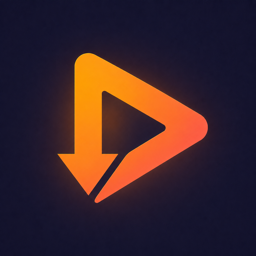
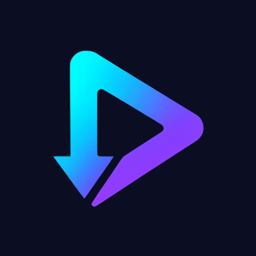
Portage rebrand: electric cyan on midnight navy, new mark
Colors and icon follow the app's new identity (cyan → azure → violet
gradient, midnight-navy surfaces); synced from the app repo's docs/rtc.

diff --git a/index.html b/index.html
@@ -8,23 +8,23 @@
 <style>
   :root {
     color-scheme: dark;
-    --accent: #F59E42;   /* warm amber — the app's primary */
-    --coral:  #E85E52;   /* glow gradient partner */
-    --violet: #9E78F0;   /* conversion family */
-    --deep:   #16172B;   /* deep indigo surface */
-    --ink:    #ECEAF3;
-    --muted:  #9095AD;
-    --glow: linear-gradient(135deg, var(--accent), var(--coral));
+    --accent: #19D8E6;   /* electric cyan — the app's primary */
+    --blue:   #268CFF;   /* glow gradient bridge */
+    --violet: #7B45F6;   /* conversion family */
+    --deep:   #0B0D22;   /* midnight navy surface */
+    --ink:    #F4F7FF;
+    --muted:  #AEB7D4;
+    --glow: linear-gradient(135deg, #19E2D3, var(--blue), var(--violet));
   }
   * { box-sizing: border-box; }
-  html, body { margin: 0; height: 100%; color: #ECEAF3; color: var(--ink);
+  html, body { margin: 0; height: 100%; color: #F4F7FF; color: var(--ink);
     font: 16px/1.5 -apple-system, BlinkMacSystemFont, "Segoe UI", system-ui, sans-serif;
     -webkit-font-smoothing: antialiased; }
-  /* "Projector in a dark room": warm amber light on deep indigo. */
-  body { background: radial-gradient(1200px 640px at 50% -10%, rgba(245,158,66,0.20), transparent 60%),
-      radial-gradient(900px 620px at 88% 116%, rgba(158,120,240,0.16), transparent 60%),
-      #16172B; background: radial-gradient(1200px 640px at 50% -10%, rgba(245,158,66,0.20), transparent 60%),
-      radial-gradient(900px 620px at 88% 116%, rgba(158,120,240,0.16), transparent 60%),
+  /* The mark's own light in a dark room: electric cyan on midnight navy. */
+  body { background: radial-gradient(1200px 640px at 50% -10%, rgba(25,216,230,0.20), transparent 60%),
+      radial-gradient(900px 620px at 88% 116%, rgba(123,69,246,0.16), transparent 60%),
+      #0B0D22; background: radial-gradient(1200px 640px at 50% -10%, rgba(25,216,230,0.20), transparent 60%),
+      radial-gradient(900px 620px at 88% 116%, rgba(123,69,246,0.16), transparent 60%),
       var(--deep); }
   #stage { position: fixed; top: 0; left: 0; right: 0; bottom: 0; display: flex; align-items: center;
     justify-content: center; padding: 24px; box-sizing: border-box; }
@@ -45,11 +45,11 @@
 
   .mark { width: 66px; height: 66px; margin: 0 auto 18px; display: block;
     border-radius: 16px;
-    filter: drop-shadow(0 10px 24px rgba(245,158,66,0.38)); }
+    filter: drop-shadow(0 10px 24px rgba(25,216,230,0.38)); }
   .wordmark { font-size: 12px; letter-spacing: 3.5px; text-transform: uppercase;
-    color: #9095AD; color: var(--muted); font-weight: 700; margin: 0 0 8px; }
+    color: #AEB7D4; color: var(--muted); font-weight: 700; margin: 0 0 8px; }
   h1 { font-size: 25px; font-weight: 700; letter-spacing: -0.3px; margin: 0 0 6px; }
-  .sub { color: #9095AD; color: var(--muted); font-size: 15px; margin: 0 0 26px; }
+  .sub { color: #AEB7D4; color: var(--muted); font-size: 15px; margin: 0 0 26px; }
 
   /* The screen's own code — read from here, typed into the app. Wide letter
      spacing and an unambiguous alphabet so it survives being read across a
@@ -58,7 +58,7 @@
     margin: 10px 0 4px;
     font: 700 46px/1.1 ui-monospace, "SF Mono", Menlo, monospace;
     letter-spacing: 10px; text-indent: 10px;   /* indent balances the trailing gap */
-    color: #F59E42; color: var(--accent);
+    color: #19D8E6; color: var(--accent);
     -webkit-user-select: all; user-select: all;
   }
 
@@ -70,12 +70,12 @@
   .cell { width: 60px; height: 76px; border-radius: 18px;
     background: rgba(255,255,255,0.04); border: 1.5px solid rgba(255,255,255,0.13);
     display: flex; align-items: center; justify-content: center;
-    font: 700 42px/1 ui-monospace, "SF Mono", Menlo, monospace; color: #ECEAF3; color: var(--ink);
+    font: 700 42px/1 ui-monospace, "SF Mono", Menlo, monospace; color: #F4F7FF; color: var(--ink);
     transition: border-color .15s, box-shadow .15s, transform .15s; }
   .cell.filled { border-color: rgba(255,255,255,0.30); }
-  .cell.active { border-color: #F59E42; border-color: var(--accent); transform: translateY(-2px);
-    box-shadow: 0 0 0 4px rgba(245,158,66,0.16); }
-  .cell.active::after { content: ""; width: 2px; height: 36px; background: #F59E42; background: var(--accent);
+  .cell.active { border-color: #19D8E6; border-color: var(--accent); transform: translateY(-2px);
+    box-shadow: 0 0 0 4px rgba(25,216,230,0.16); }
+  .cell.active::after { content: ""; width: 2px; height: 36px; background: #19D8E6; background: var(--accent);
     border-radius: 2px; animation: blink 1.1s step-end infinite; }
   @keyframes blink { 50% { opacity: 0; } }
   #code { position: absolute; top: 0; left: 0; right: 0; bottom: 0; width: 100%; height: 100%; opacity: 0;
@@ -83,25 +83,25 @@
 
   .btn { display: inline-flex; align-items: center; justify-content: center;
     width: 100%; height: 54px; border: 0; border-radius: 16px; cursor: pointer;
-    font-size: 17px; font-weight: 700; color: #2A1305; background-image: linear-gradient(135deg, #F59E42, #E85E52); background-image: var(--glow);
-    box-shadow: 0 14px 32px -12px rgba(245,158,66,0.65);
+    font-size: 17px; font-weight: 700; color: #0B0D22; background-image: linear-gradient(135deg, #19E2D3, #268CFF, #7B45F6); background-image: var(--glow);
+    box-shadow: 0 14px 32px -12px rgba(38,140,255,0.55);
     transition: transform .1s, filter .15s, opacity .15s; }
   .btn:active { transform: translateY(1px); filter: brightness(0.96); }
-  /* Disabled reads as an empty field waiting for input, not as a muddy amber
-     bar: greyscaling a gradient looked like a rendering fault on a TV. */
+  /* Disabled reads as an empty field waiting for input, not as a muddy
+     gradient bar: greyscaling one looked like a rendering fault on a TV. */
   .btn:disabled {
     background-image: none; background-color: rgba(255,255,255,0.06);
-    color: #9095AD; color: var(--muted);
+    color: #AEB7D4; color: var(--muted);
     border: 1px solid rgba(255,255,255,0.08);
     box-shadow: none; cursor: default; opacity: 1;
   }
 
   .spinner { width: 44px; height: 44px; margin: 10px auto 18px;
-    border: 3.5px solid rgba(245,158,66,0.18); border-top-color: #F59E42; border-top-color: var(--accent);
+    border: 3.5px solid rgba(25,216,230,0.18); border-top-color: #19D8E6; border-top-color: var(--accent);
     border-radius: 50%; animation: spin 0.9s linear infinite; }
   @keyframes spin { to { transform: rotate(360deg); } }
-  #status { color: #9095AD; color: var(--muted); font-size: 14px; margin-top: 14px; min-height: 18px; }
-  .signal-error { color: #ff8d86; font-size: 13px; line-height: 1.35; margin: 14px 0 0;
+  #status { color: #AEB7D4; color: var(--muted); font-size: 14px; margin-top: 14px; min-height: 18px; }
+  .signal-error { color: #F05D74; font-size: 13px; line-height: 1.35; margin: 14px 0 0;
     min-height: 18px; }
 
 
@@ -121,7 +121,7 @@
   /* Text-only affordance; shown only where the QR is collapsed (phones). */
   .linkbtn { display: none; margin: 14px auto 0; padding: 8px 4px;
     background: none; border: 0; cursor: pointer;
-    font-size: 14px; font-weight: 600; color: #F59E42; color: var(--accent); }
+    font-size: 14px; font-weight: 600; color: #19D8E6; color: var(--accent); }
   @media (min-width: 660px) and (orientation: landscape) {
     /* wrap so the status footer drops below both columns instead of becoming
        a third one beside the QR. */
@@ -166,8 +166,8 @@
     background: rgba(11,12,24,0.58); -webkit-backdrop-filter: blur(5px); backdrop-filter: blur(5px); z-index: 15; }
   #reconnect.show { display: flex; }
   #reconnect .rc-box { text-align: center; }
-  #reconnect .rc-title { margin-top: 14px; font-size: 18px; font-weight: 700; color: #ECEAF3; color: var(--ink); }
-  #reconnect .rc-sub { margin-top: 6px; font-size: 14px; color: #9095AD; color: var(--muted); }
+  #reconnect .rc-title { margin-top: 14px; font-size: 18px; font-weight: 700; color: #F4F7FF; color: var(--ink); }
+  #reconnect .rc-sub { margin-top: 6px; font-size: 14px; color: #AEB7D4; color: var(--muted); }
 
   /* Paired senders on the landing: we're listening for their casts. */
   /* This is status, and status the user has already been told once: a screen
@@ -181,9 +181,9 @@
   #pairs { margin: 18px 0 0; }
   .pairrow { display: -webkit-flex; display: flex; -webkit-align-items: center; align-items: center;
     -webkit-justify-content: center; justify-content: center;
-    font-size: 12px; color: #9095AD; color: var(--muted); }
+    font-size: 12px; color: #AEB7D4; color: var(--muted); }
   .pairrow > * + * { margin-left: 7px; }
-  .pairrow .dot { width: 5px; height: 5px; border-radius: 50%; background: #F59E42; background: var(--accent);
+  .pairrow .dot { width: 5px; height: 5px; border-radius: 50%; background: #19D8E6; background: var(--accent);
     opacity: 0.85; animation: pulse 1.6s ease-in-out infinite; flex: none; }
   @keyframes pulse { 50% { opacity: 0.2; } }
   .pairrow .name { font-weight: 500; min-width: 0;
@@ -194,11 +194,11 @@
      much to hang off a glyph. Kept at the line's weight so it reads as part
      of the sentence until you go looking for it. */
   .pairrow .forget { flex: none; border: 0; background: transparent; padding: 0;
-    color: #9095AD; color: var(--muted); font: inherit; text-decoration: underline;
+    color: #AEB7D4; color: var(--muted); font: inherit; text-decoration: underline;
     text-underline-offset: 2px; opacity: 0.75; cursor: pointer; }
-  .pairrow .forget:hover { color: #ECEAF3; color: var(--ink); opacity: 1; }
+  .pairrow .forget:hover { color: #F4F7FF; color: var(--ink); opacity: 1; }
   #scan { margin-top: 22px; }
-  .scanor { color: #9095AD; color: var(--muted); font-size: 13px; text-transform: uppercase; letter-spacing: 2px;
+  .scanor { color: #AEB7D4; color: var(--muted); font-size: 13px; text-transform: uppercase; letter-spacing: 2px;
     margin: 0 0 16px; position: relative; }
   .scanor::before, .scanor::after { content: ""; position: absolute; top: 50%; width: 32%;
     height: 1px; background: rgba(255,255,255,0.12); }
@@ -280,10 +280,10 @@
 </style>
 </head>
 <body>
-  <!-- Shared logo gradient (amber → coral), referenced by both marks. -->
+  <!-- Shared logo gradient (cyan → azure → violet), referenced by both marks. -->
   <svg width="0" height="0" style="position:absolute" aria-hidden="true"><defs>
     <linearGradient id="bg" x1="0" y1="0" x2="1" y2="1">
-      <stop offset="0" stop-color="#F59E42"/><stop offset="1" stop-color="#E85E52"/>
+      <stop offset="0" stop-color="#19E2D3"/><stop offset="0.5" stop-color="#268CFF"/><stop offset="1" stop-color="#7B45F6"/>
     </linearGradient>
   </defs></svg>
 
